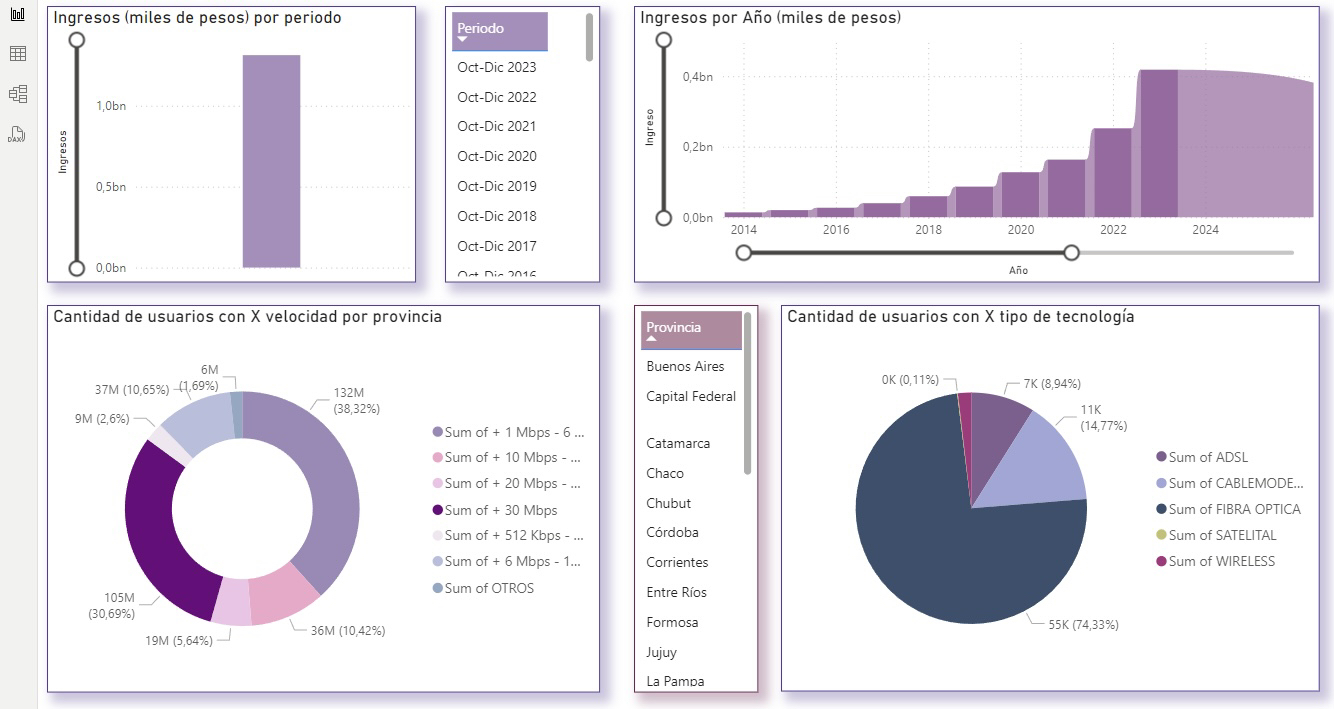
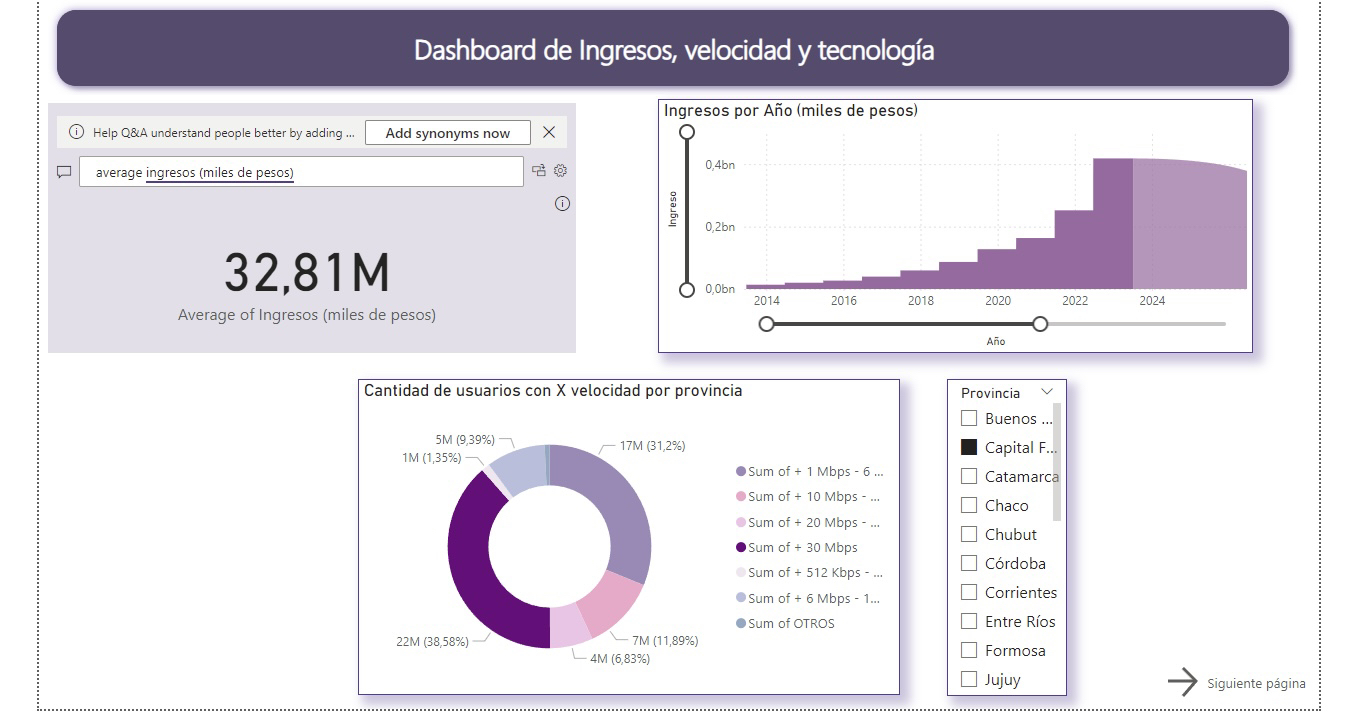
Finalizando

diff --git a/README.md b/README.md
@@ -21,3 +21,8 @@ Llegando al final del EDA. Llegué a la conclusión de que la compañía, presen
 ![dashboard](./src/dash1.jpeg)
 
 Para el dashboard interactivo, elegí utilizar PowerBI, ya que es una herramienta previamente conocida, y para ello también me basé en varias paletas de colores. Utilizando principalmente tonos violetas y azules, para los KPI decidí cambiar un poco, para que sea mas distintivo. Para esto utilicé amarillos/dorados.
+![dashboard_2](./src/dash2.jpeg)
+
+Y con esto, finalicé el proyecto numero dos. 
+
+![gracias](./src/gracias.gif)
